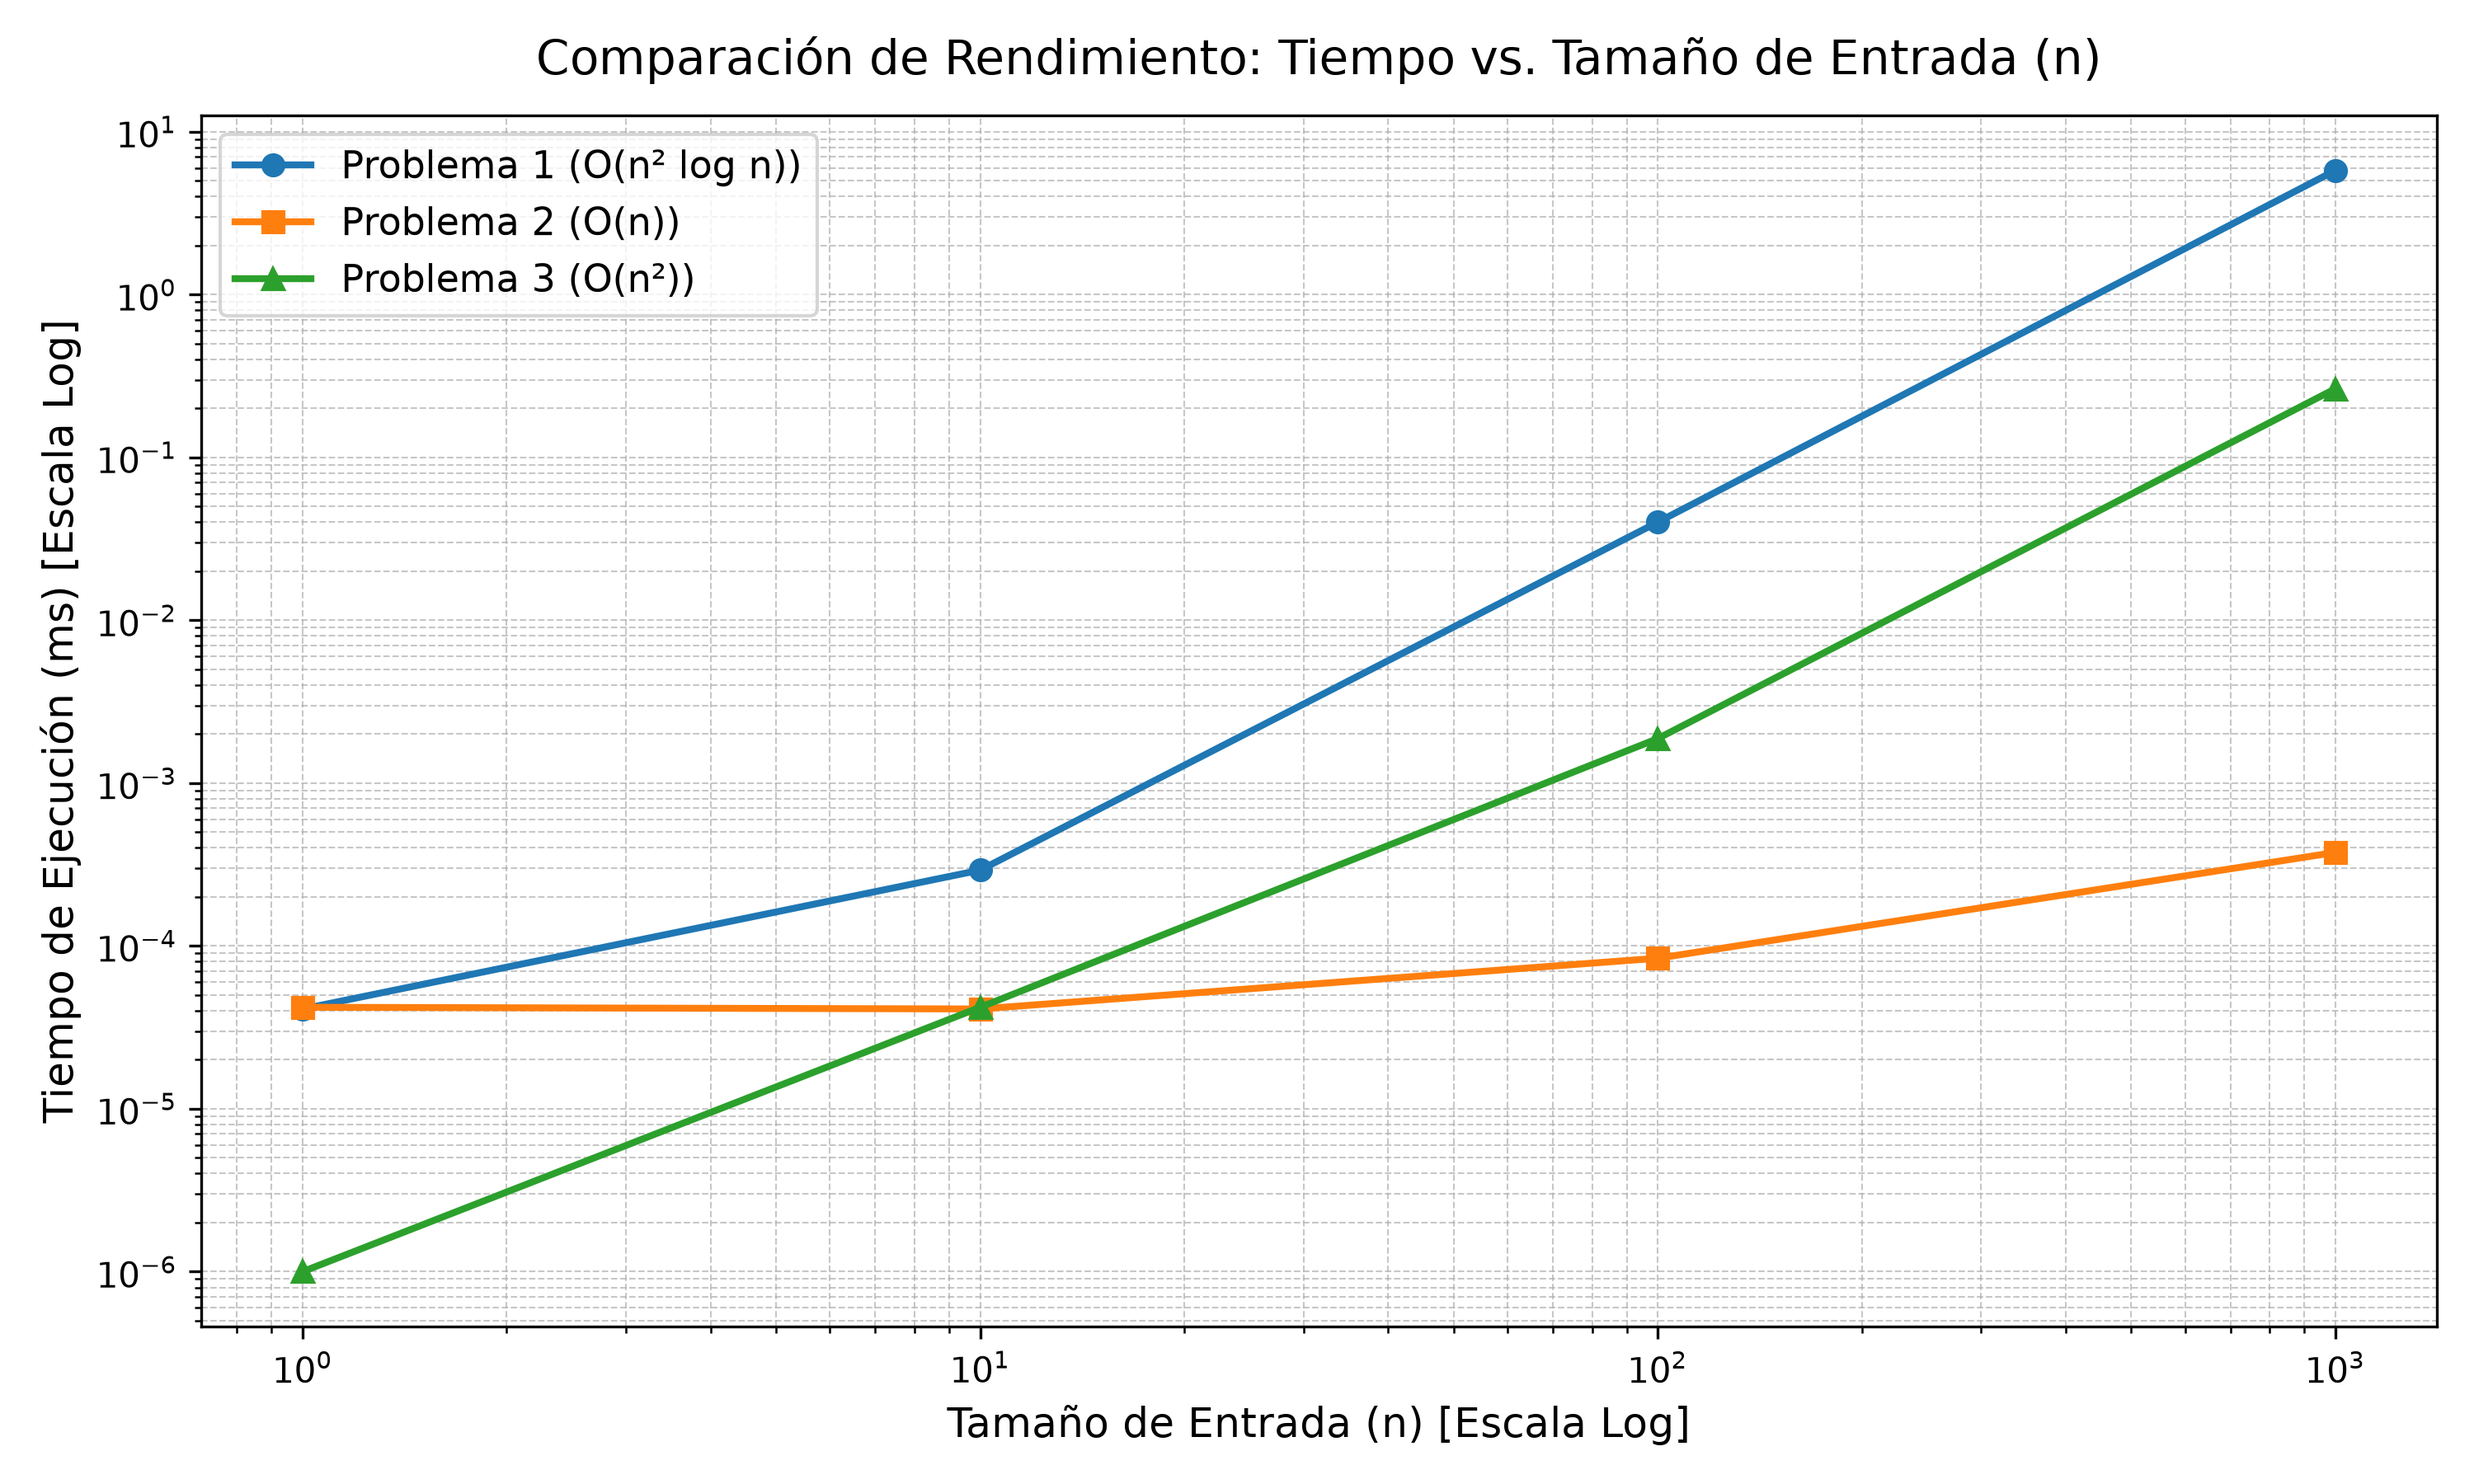
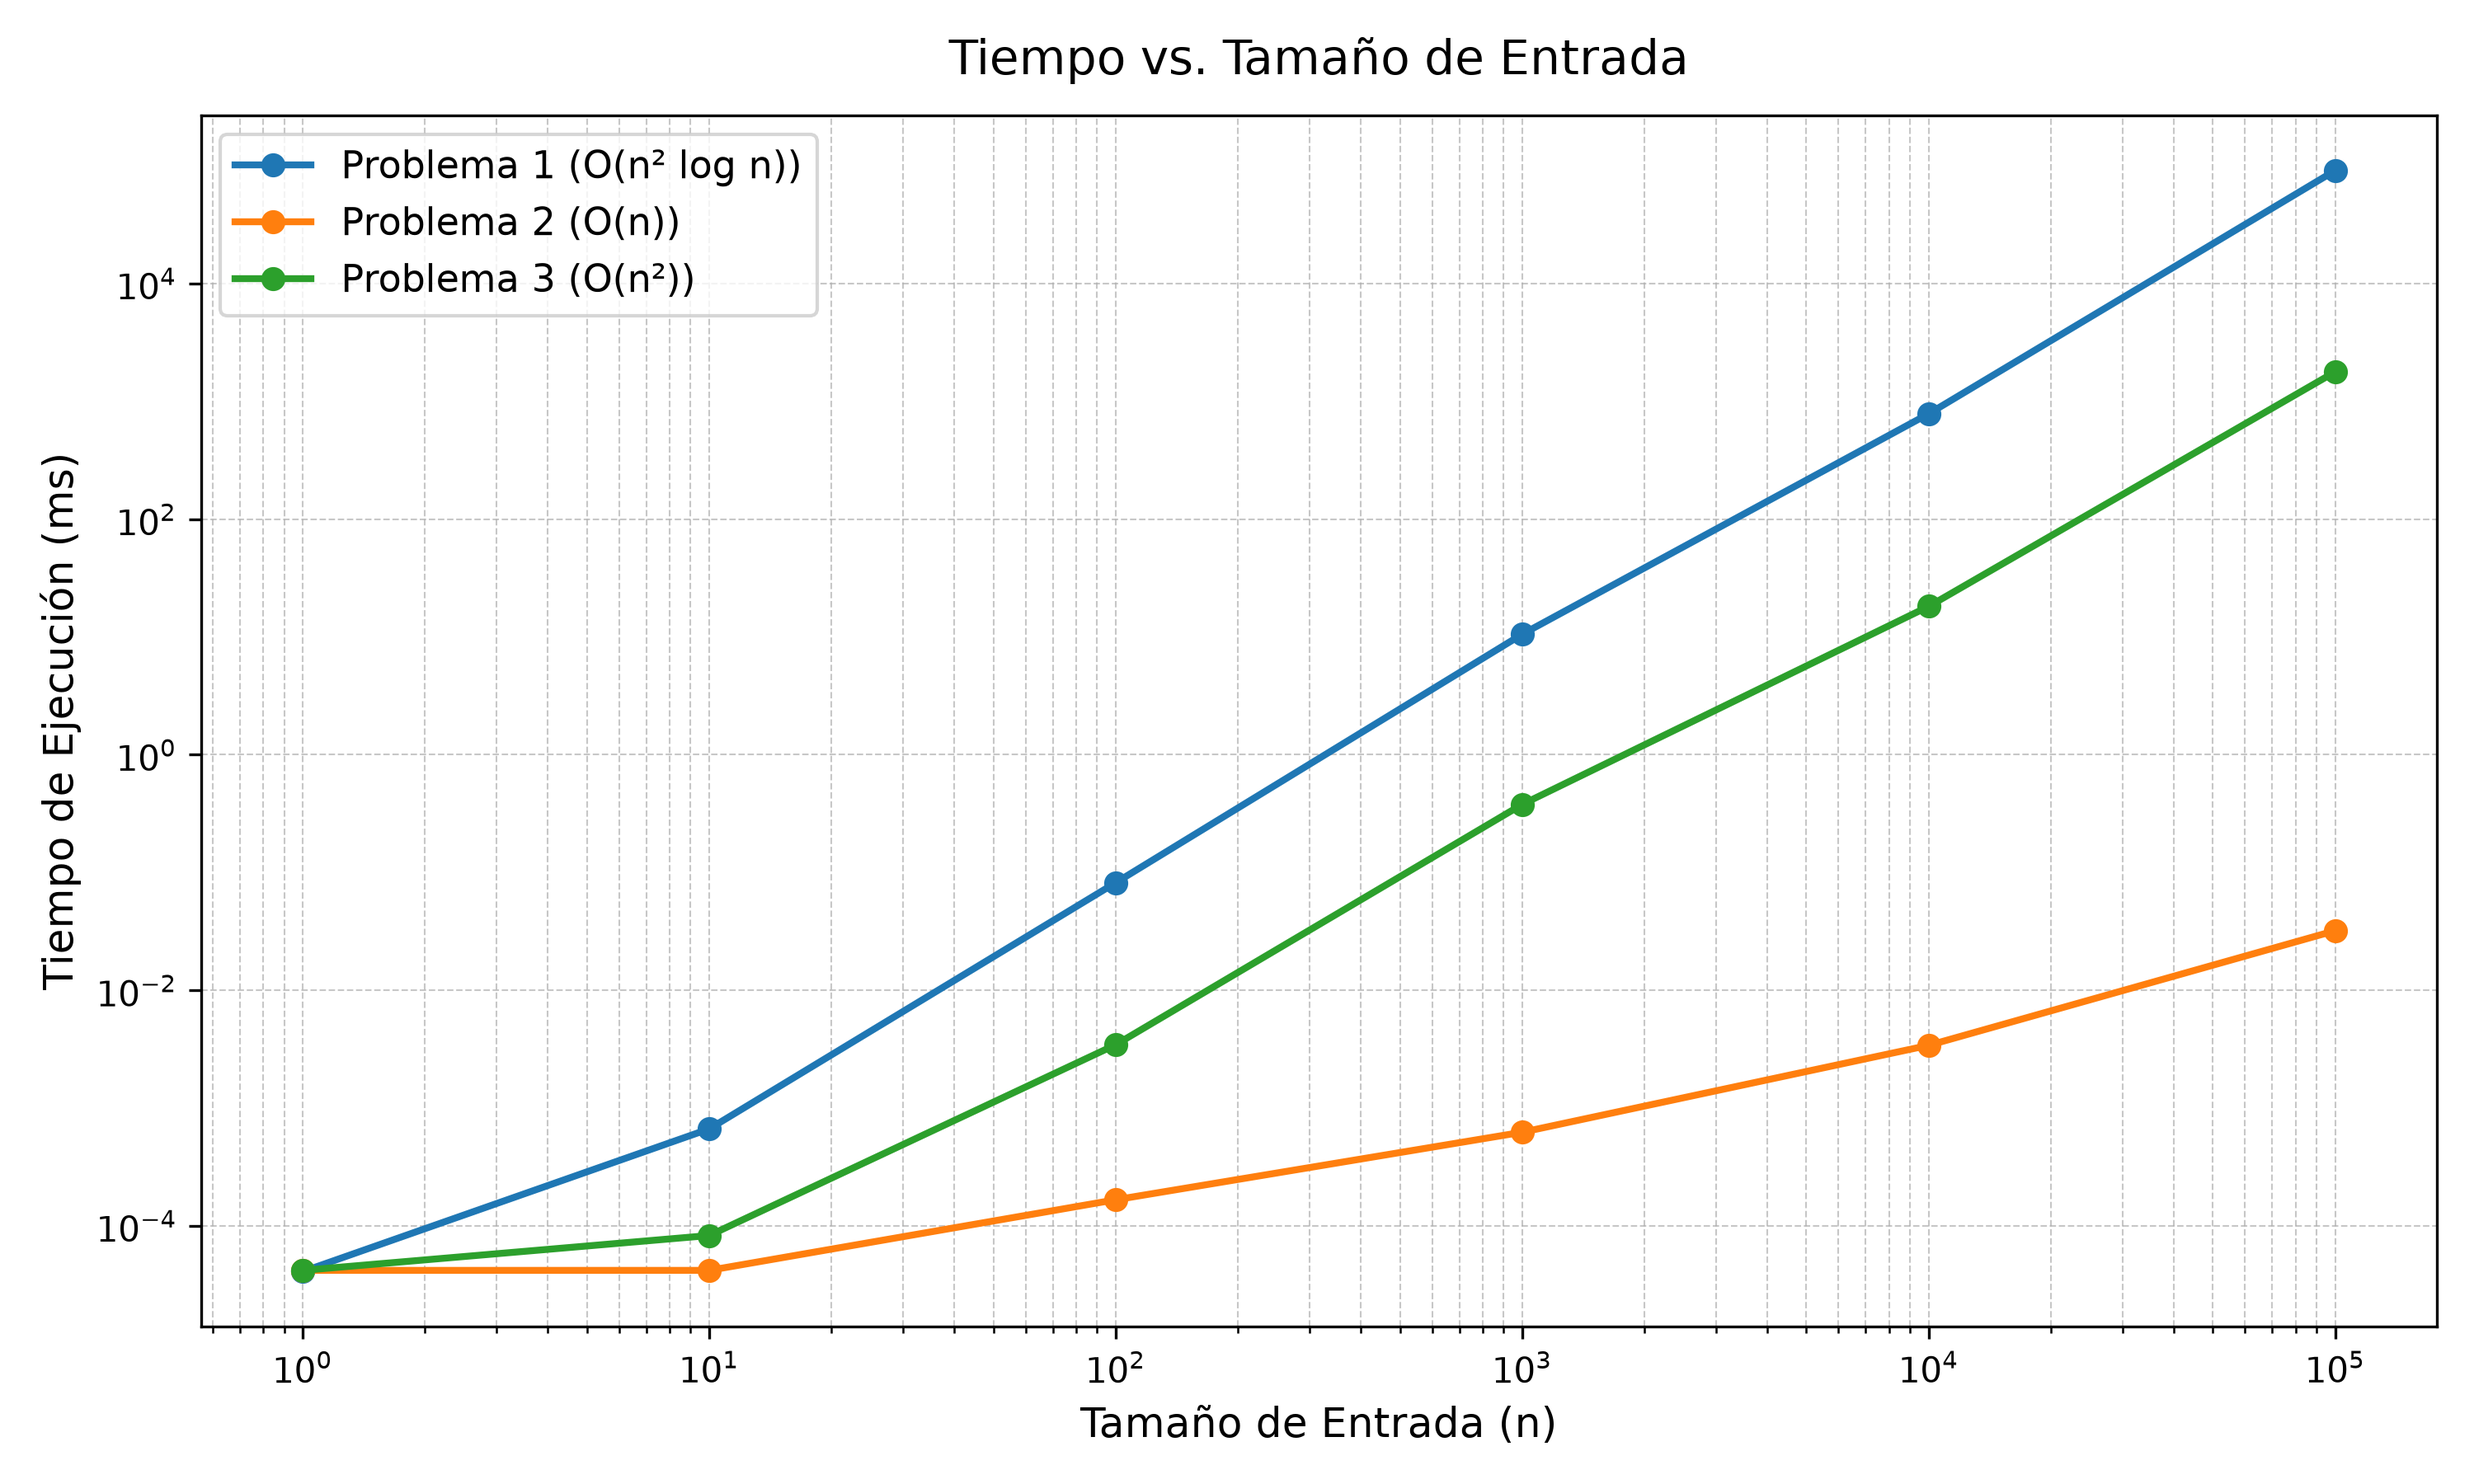
feat: documentación y video de prueba

diff --git a/plot.py b/plot.py
@@ -11,14 +11,14 @@ df["Problema_3"] = df["Problema_3"].clip(lower=1e-6)
 
 plt.figure(figsize=(10, 6))
 plt.plot(df["n"], df["Problema_1"], marker="o", linewidth=2, label="Problema 1 (O(n² log n))")
-plt.plot(df["n"], df["Problema_2"], marker="s", linewidth=2, label="Problema 2 (O(n))")
-plt.plot(df["n"], df["Problema_3"], marker="^", linewidth=2, label="Problema 3 (O(n²))")
+plt.plot(df["n"], df["Problema_2"], marker="o", linewidth=2, label="Problema 2 (O(n))")
+plt.plot(df["n"], df["Problema_3"], marker="o", linewidth=2, label="Problema 3 (O(n²))")
 
 plt.xscale("log")
 plt.yscale("log")
-plt.title("Comparación de Rendimiento: Tiempo vs. Tamaño de Entrada (n)", fontsize=14, pad=12)
-plt.xlabel("Tamaño de Entrada (n) [Escala Log]", fontsize=12)
-plt.ylabel("Tiempo de Ejecución (ms) [Escala Log]", fontsize=12)
+plt.title("Tiempo vs. Tamaño de Entrada", fontsize=14, pad=12)
+plt.xlabel("Tamaño de Entrada (n)", fontsize=12)
+plt.ylabel("Tiempo de Ejecución (ms)", fontsize=12)
 plt.grid(True, which="both", linestyle="--", linewidth=0.5, alpha=0.7)
 plt.legend(fontsize=11)
 plt.tight_layout()

diff --git a/main.cpp b/main.cpp
@@ -19,7 +19,7 @@ double benchmark(Func&& func, Args&&... args) {
 }
 
 int main() {
-    const std::vector<int> test_sizes = {1, 10, 100, 1000, 10000, 100000, 1000000}[span_0](start_span)[span_0](end_span)[span_1](start_span)[span_1](end_span)[span_2](start_span)[span_2](end_span);
+    const std::vector<int> test_sizes = {1, 10, 100, 1000, 10000, 100000};
 
     std::ofstream csv_file("benchmark_results.csv");
     csv_file << "n,Problema_1,Problema_2,Problema_3\n";

diff --git a/README.md b/README.md
@@ -1,6 +1,10 @@
 # CC2019-LAB8
 
-Analisis de algoritmos.
+Análisis de algoritmos. El propósito del laboratorio es analizar y comparar cómo crece el tiempo de ejecución de tres algoritmos con distintas complejidades: `O(n² log n)`, `O(n)` y `O(n²)`.
+
+## Descripción
+
+Se implementaron los algoritmos en C++, un programa de *benchmark* que mide sus tiempos para diferentes tamaños de entrada y exporta los resultados a un archivo CSV. Finalmente, un script en Python genera una gráfica en escala logarítmica para comparar el comportamiento experimental con el análisis teórico.
 
 ## 1. Ejecutar
 
@@ -14,3 +18,5 @@ clang++ -std=c++17 -O2 main.cpp -o main
 ```bash
 docker compose run --rm plotter
 ```
+
+**Enlace al video de ejecución**: <https://youtu.be/nkSnOaPbpj8>
